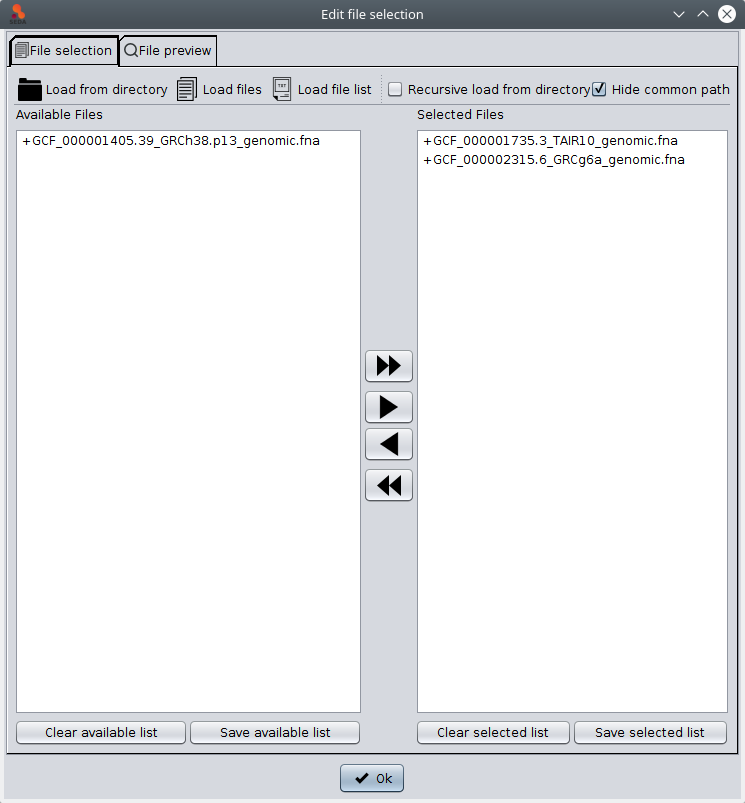
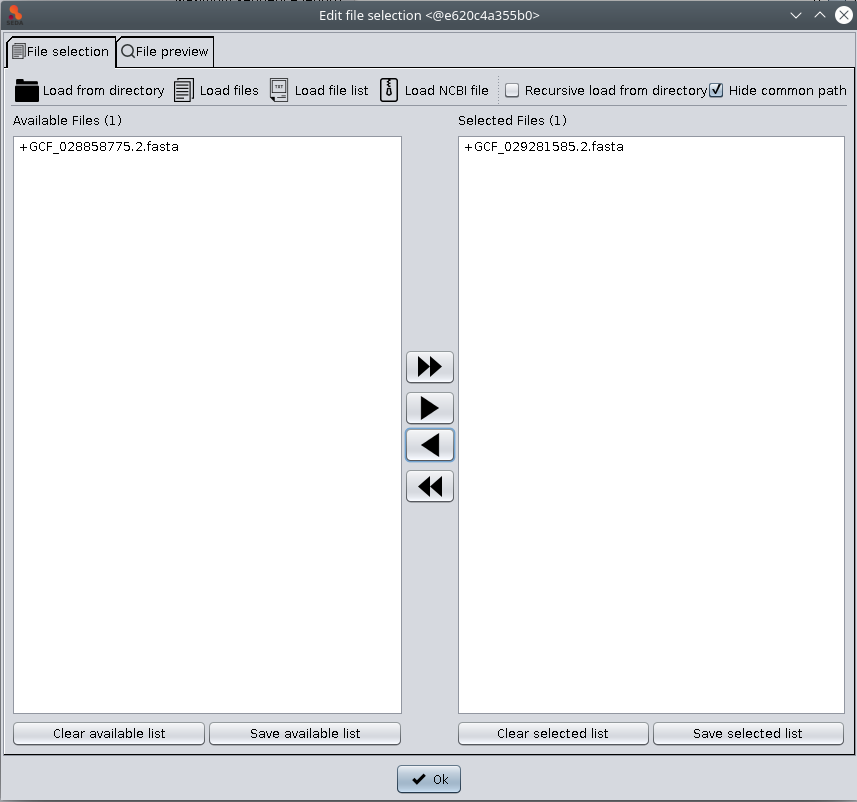
Fixes progress dialog closing and updates manual

Changed region(s): [[0.0, 0.0, 1.0, 1.0]]

diff --git a/seda/src/main/java/org/sing_group/seda/gui/PathSelectionPanel.java b/seda/src/main/java/org/sing_group/seda/gui/PathSelectionPanel.java
@@ -385,6 +385,7 @@ public class PathSelectionPanel extends JPanel {
     new CustomSwingWorker(() -> {
       showFileChooserAndProcess(
           JFileChooser.FILES_ONLY, JFileChooser.OPEN_DIALOG, true, zipFile -> {
+            System.out.println(zipFile);
             try {
               new NcbiDatasetProcessor(zipFile.toFile())
                   .process(IOUtils.createSedaUserHomeDirectory("SEDA_NCBI_datasets"))
@@ -392,6 +393,9 @@ public class PathSelectionPanel extends JPanel {
             } catch (IOException e) {
               e.printStackTrace();
             }
+            dialog.dispose();
+          },
+          () -> {
             dialog.dispose();
           });
     }).execute();
@@ -407,7 +411,13 @@ public class PathSelectionPanel extends JPanel {
   private void showFileChooserAndProcess(
     int selectionMode, int dialogMode, boolean multipleSelection, Consumer<Path> pathProcesser
   ) {
-    showFileChooserAndProcess(selectionMode, dialogMode, multipleSelection, pathProcesser, emptyList());
+    showFileChooserAndProcess(selectionMode, dialogMode, multipleSelection, pathProcesser, emptyList(), () -> {});
+  }
+
+  private void showFileChooserAndProcess(
+    int selectionMode, int dialogMode, boolean multipleSelection, Consumer<Path> pathProcesser, Runnable onCancel
+  ) {
+    showFileChooserAndProcess(selectionMode, dialogMode, multipleSelection, pathProcesser, emptyList(), onCancel);
   }
 
   private void showFileChooserAndProcess(
@@ -415,7 +425,16 @@ public class PathSelectionPanel extends JPanel {
     List<FileFilter> fileFilters
   ) {
     GuiUtils.showFileChooserAndProcess(
-      this.fileChooser, this, selectionMode, dialogMode, multipleSelection, fileFilters, pathProcesser
+      this.fileChooser, this, selectionMode, dialogMode, multipleSelection, fileFilters, pathProcesser, () -> {}
+    );
+  }
+
+  private void showFileChooserAndProcess(
+    int selectionMode, int dialogMode, boolean multipleSelection, Consumer<Path> pathProcesser,
+    List<FileFilter> fileFilters, Runnable onCancel
+  ) {
+    GuiUtils.showFileChooserAndProcess(
+      this.fileChooser, this, selectionMode, dialogMode, multipleSelection, fileFilters, pathProcesser, onCancel
     );
   }
 

diff --git a/seda/src/main/java/org/sing_group/seda/gui/GuiUtils.java b/seda/src/main/java/org/sing_group/seda/gui/GuiUtils.java
@@ -101,8 +101,16 @@ public final class GuiUtils {
   }
 
   public static void showFileChooserAndProcess(
+      JFileChooser fileChooser, Component parent, int selectionMode, int dialogMode, boolean multipleSelection,
+      List<FileFilter> fileFilters, Consumer<Path> pathProcessor
+  ) {
+    showFileChooserAndProcess(fileChooser, parent, selectionMode, dialogMode, multipleSelection, fileFilters,
+        pathProcessor, () -> {});
+  }
+
+  public static void showFileChooserAndProcess(
     JFileChooser fileChooser, Component parent, int selectionMode, int dialogMode, boolean multipleSelection,
-    List<FileFilter> fileFilters, Consumer<Path> pathProcessor
+    List<FileFilter> fileFilters, Consumer<Path> pathProcessor, Runnable onCancel
   ) {
     fileChooser.setFileSelectionMode(selectionMode);
     fileChooser.setMultiSelectionEnabled(multipleSelection);
@@ -121,6 +129,8 @@ public final class GuiUtils {
       } else {
         pathProcessor.accept(fileChooser.getSelectedFile().toPath());
       }
+    } else {
+      onCancel.run();
     }
 
     if(!fileFilters.isEmpty()) {

diff --git a/seda-docs/source/conf.py b/seda-docs/source/conf.py
@@ -56,7 +56,7 @@ author = u'Jorge Vieira, Cristina Vieira, Noé Vázquez, Miguel Reboiro-Jato and
 # The short X.Y version.
 version = u'1.7'
 # The full version, including alpha/beta/rc tags.
-release = u'1.7.0'
+release = u'1.7.1'
 
 # The language for content autogenerated by Sphinx. Refer to documentation
 # for a list of supported languages.

diff --git a/seda-docs/source/graphical-user-interface.rst b/seda-docs/source/graphical-user-interface.rst
@@ -14,10 +14,12 @@ The *Input* area allows to select the FASTA files that you want to process. To d
 .. figure:: images/graphical-user-interface/2.png
    :align: center
 
-The *File selection* tab allows to load files into SEDA using the *‘Load from directory’*, *‘Load files’* and *‘Load file list’* buttons. This latter option allows to select a plain text file containing the paths to the files to load. Loaded files are added to the *‘Available files’* list. The files to which the operation must be applied should be moved from this list to the *‘Selected files’* list using the arrow controls between them. After doing this, you can click the *‘Ok’* button to return to the main SEDA GUI, where you can see that the selection status is updated. The rational for this design is that you can select all files to be processed at once by putting them in the *‘Available Files‘* section, but process them in smaller batches, according to your computer memory settings.
+The *File selection* tab allows to load files into SEDA using the *‘Load from directory’*, *‘Load files’*, *‘Load file list’*, and *‘Load NCBI file'* buttons. Loaded files are added to the *‘Available files’* list. The files to which the operation must be applied should be moved from this list to the *‘Selected files’* list using the arrow controls between them. After doing this, you can click the *‘Ok’* button to return to the main SEDA GUI, where you can see that the selection status is updated. The rational for this design is that you can select all files to be processed at once by putting them in the *‘Available Files‘* section, but process them in smaller batches, according to your computer memory settings.
 
 .. figure:: images/graphical-user-interface/3.png
    :align: center
+
+The *‘Load file list’* option allows to select a plain text file containing the paths to the files to load. The *‘Load NCBI file'* option allows to select an ZIP file downloaded from NCBI and load all FASTA files contained in it. This ZIP file should contain a subfolder called *'ncbi_dataset'* with another one called *'data'* inside. This latter subfolder contains one folder for each FASTA file and all FASTA files are named *‘cds_from_genomic.fna‘*. This option extracts and renames these files into a hidden directory named *'SEDA_NCBI_datasets'* at your home.
 
 The *‘Statistics’* button shows a table with general information (sequence count, maximum and minimum sequence length) related to the selected files. Note that information in the tables below can be selected and then copied (using the Ctrl+C) and pasted into other applications such as text editor or spreadsheets.
 
